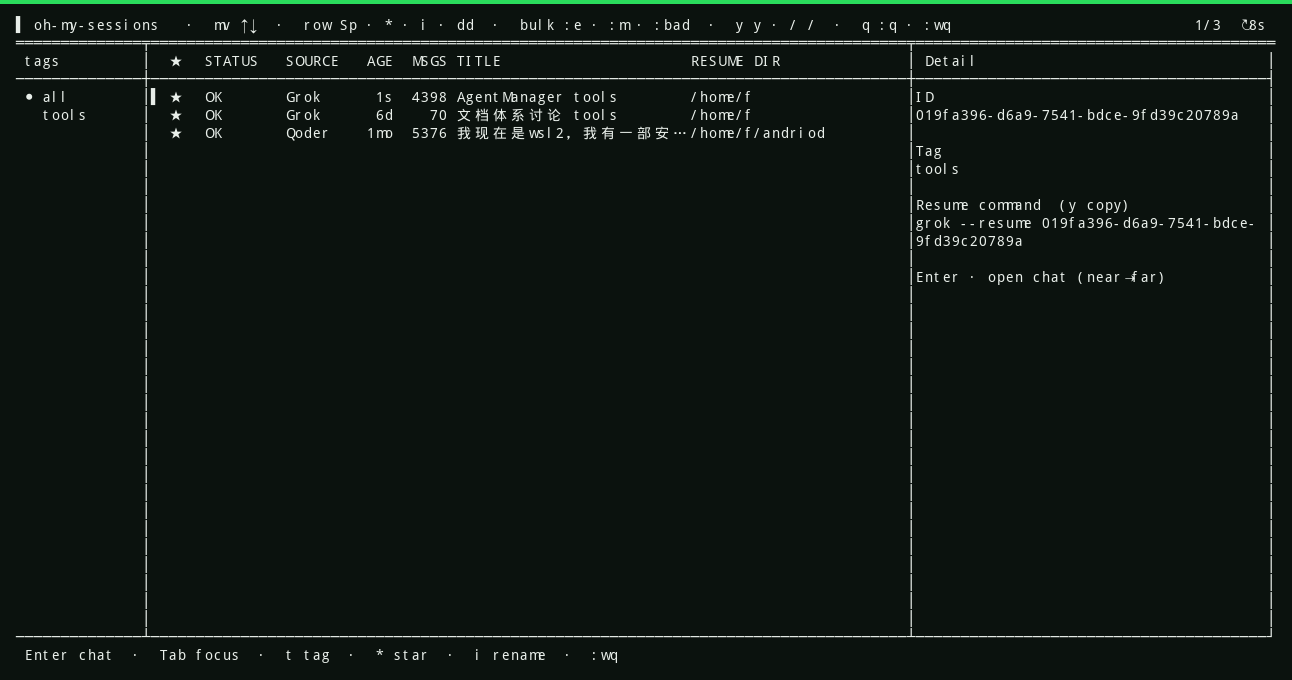
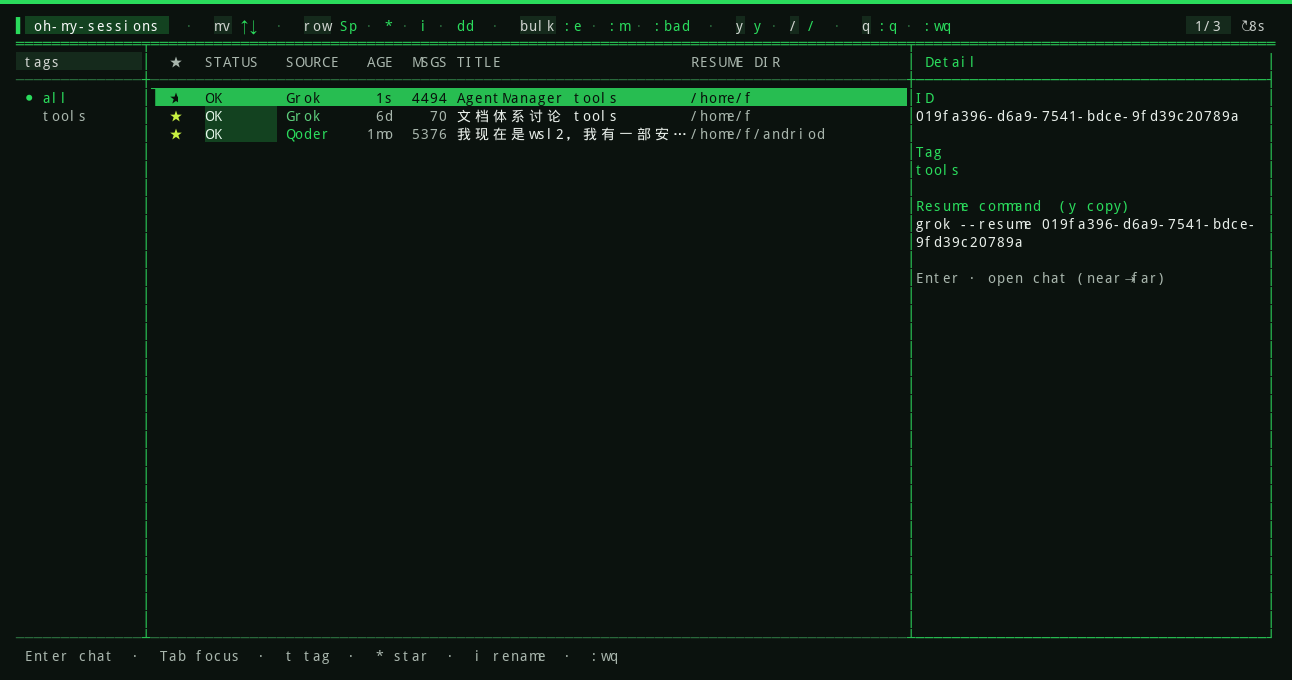
fix(screenshot): keep truecolor SGR; paint FG+BG cells
OTHER_CSI was stripping CSI …m (SGR), so PNGs lost all theme colors.
Preserve SGR, apply 38;2 / 48;2 per cell, re-capture demo images.

diff --git a/scripts/ansi_to_png.py b/scripts/ansi_to_png.py
@@ -1,5 +1,5 @@
 #!/usr/bin/env python3
-"""Render a tmux/ANSI capture (truecolor) to a dark warm PNG screenshot."""
+"""Render a tmux/ANSI capture (truecolor FG+BG) to a PNG screenshot."""
 from __future__ import annotations
 
 import re
@@ -8,24 +8,22 @@ from pathlib import Path
 
 from PIL import Image, ImageDraw, ImageFont
 
-# CSI sequences we care about
+# CSI SGR (colors) — must NOT be stripped by OTHER_CSI
 SGR_RE = re.compile(r"\x1b\[([0-9;]*)m")
-# strip other CSI (cursor etc.) — capture should be mostly SGR + text
-OTHER_CSI = re.compile(r"\x1b\[[0-9;?]*[A-Za-z]")
-OSC = re.compile(r"\x1b\][^\x07]*\x07")
+# Strip non-SGR CSI only (cursor / erase / modes). Do not match final `m`.
+OTHER_CSI = re.compile(r"\x1b\[[0-9;?]*[A-Za-ln-z]")
+OSC = re.compile(r"\x1b\][^\x07\x1b]*(?:\x07|\x1b\\)")
 
 # Match TUI canvas (green dark) — see src/tui/theme.ts
-BG = (11, 18, 14)
-FG = (232, 238, 233)
+DEFAULT_BG = (11, 18, 14)
+DEFAULT_FG = (232, 238, 233)
 CELL_W = 9
 CELL_H = 18
 PAD = 16
 
 # Prefer CJK-capable fonts so Chinese titles don't render as tofu (□).
 FONT_CANDIDATES = [
-    # Bundled next to this script (reproducible screenshots)
     str(Path(__file__).resolve().parent / "fonts" / "wqy-microhei.ttc"),
-    # Project-local / user install
     str(Path.home() / ".local/share/fonts/oh-my-sessions/wqy-microhei.ttc"),
     str(Path.home() / ".local/share/fonts/wqy-microhei.ttc"),
     "/usr/share/fonts/truetype/wqy/wqy-microhei.ttc",
@@ -45,27 +43,6 @@ def load_font(size: int = 14):
         except Exception:
             continue
     return ImageFont.load_default()
-
-
-def parse_line(line: str):
-    """Yield (text, fg_rgb|None) runs."""
-    line = OSC.sub("", line)
-    line = OTHER_CSI.sub("", line)
-    pos = 0
-    fg = None
-    for m in SGR_RE.finditer(line):
-        if m.start() > pos:
-            yield line[pos : m.start()], fg
-        params = [int(x) for x in m.group(1).split(";") if x != ""]
-        if not params or params == [0]:
-            fg = None
-        elif len(params) >= 5 and params[0] == 38 and params[1] == 2:
-            fg = (params[2], params[3], params[4])
-        elif params[0] == 39:
-            fg = None
-        pos = m.end()
-    if pos < len(line):
-        yield line[pos:], fg
 
 
 def display_width(s: str) -> int:
@@ -88,12 +65,89 @@ def display_width(s: str) -> int:
     return w
 
 
+def apply_sgr(
+    params: list[int],
+    fg: tuple[int, int, int] | None,
+    bg: tuple[int, int, int] | None,
+) -> tuple[tuple[int, int, int] | None, tuple[int, int, int] | None]:
+    """Apply one CSI … m parameter list (may contain several attrs)."""
+    i = 0
+    n = len(params)
+    if n == 0:
+        return None, None
+    while i < n:
+        p = params[i]
+        if p == 0:
+            fg, bg = None, None
+            i += 1
+        elif p == 39:
+            fg = None
+            i += 1
+        elif p == 49:
+            bg = None
+            i += 1
+        elif p == 38 and i + 4 < n and params[i + 1] == 2:
+            fg = (params[i + 2], params[i + 3], params[i + 4])
+            i += 5
+        elif p == 48 and i + 4 < n and params[i + 1] == 2:
+            bg = (params[i + 2], params[i + 3], params[i + 4])
+            i += 5
+        elif p == 38 and i + 2 < n and params[i + 1] == 5:
+            # 256-color — approximate gray ramp / ignore fancy mapping
+            idx = params[i + 2]
+            if 232 <= idx <= 255:
+                v = 8 + (idx - 232) * 10
+                fg = (v, v, v)
+            elif 16 <= idx <= 231:
+                c = idx - 16
+                r = c // 36
+                g = (c % 36) // 6
+                b = c % 6
+                fg = (r * 51, g * 51, b * 51)
+            i += 3
+        elif p == 48 and i + 2 < n and params[i + 1] == 5:
+            idx = params[i + 2]
+            if 232 <= idx <= 255:
+                v = 8 + (idx - 232) * 10
+                bg = (v, v, v)
+            elif 16 <= idx <= 231:
+                c = idx - 16
+                r = c // 36
+                g = (c % 36) // 6
+                b = c % 6
+                bg = (r * 51, g * 51, b * 51)
+            i += 3
+        else:
+            # bold/dim/underline etc. — ignore for screenshot
+            i += 1
+    return fg, bg
+
+
+def parse_line(line: str):
+    """Yield (text, fg_rgb|None, bg_rgb|None) runs with truecolor state."""
+    line = OSC.sub("", line)
+    line = OTHER_CSI.sub("", line)
+    pos = 0
+    fg: tuple[int, int, int] | None = None
+    bg: tuple[int, int, int] | None = None
+    for m in SGR_RE.finditer(line):
+        if m.start() > pos:
+            yield line[pos : m.start()], fg, bg
+        params = [int(x) for x in m.group(1).split(";") if x != ""]
+        fg, bg = apply_sgr(params, fg, bg)
+        pos = m.end()
+    if pos < len(line):
+        yield line[pos:], fg, bg
+
+
 def main() -> None:
+    if len(sys.argv) < 3:
+        print(f"usage: {sys.argv[0]} <ansi.txt> <out.png>", file=sys.stderr)
+        sys.exit(2)
     src = Path(sys.argv[1])
     dst = Path(sys.argv[2])
     raw = src.read_bytes().decode("utf-8", errors="replace")
     lines = raw.splitlines()
-    # trim trailing empties
     while lines and not lines[-1].strip():
         lines.pop()
 
@@ -101,29 +155,38 @@ def main() -> None:
     parsed = []
     for line in lines:
         runs = list(parse_line(line.rstrip("\n")))
-        plain = "".join(t for t, _ in runs)
+        plain = "".join(t for t, _, _ in runs)
         max_cols = max(max_cols, display_width(plain))
         parsed.append(runs)
 
     w = PAD * 2 + max_cols * CELL_W
     h = PAD * 2 + len(parsed) * CELL_H
-    img = Image.new("RGB", (w, h), BG)
+    img = Image.new("RGB", (w, h), DEFAULT_BG)
     draw = ImageDraw.Draw(img)
     font = load_font(14)
 
     y = PAD
     for runs in parsed:
         x = PAD
-        for text, fg in runs:
-            color = fg or FG
-            # draw char by char for CJK width
+        for text, fg, bg in runs:
+            color = fg if fg is not None else DEFAULT_FG
+            cell_bg = bg if bg is not None else DEFAULT_BG
             for ch in text:
                 cw = 2 if display_width(ch) == 2 else 1
-                draw.text((x, y), ch, fill=color, font=font)
+                # fill cell background (selection, pills, brand chips, …)
+                if cell_bg != DEFAULT_BG:
+                    draw.rectangle(
+                        [x, y, x + cw * CELL_W - 1, y + CELL_H - 1],
+                        fill=cell_bg,
+                    )
+                # skip pure space after bg fill for speed
+                if ch != " " and ch != "\t":
+                    # slight vertical centering for CJK in cell
+                    draw.text((x, y + 1), ch, fill=color, font=font)
                 x += cw * CELL_W
         y += CELL_H
 
-    # soft top accent line (brand green)
+    # brand accent strip
     draw.rectangle([0, 0, w, 3], fill=(42, 219, 92))
     img.save(dst, "PNG")
     print(f"wrote {dst} ({w}x{h})")
